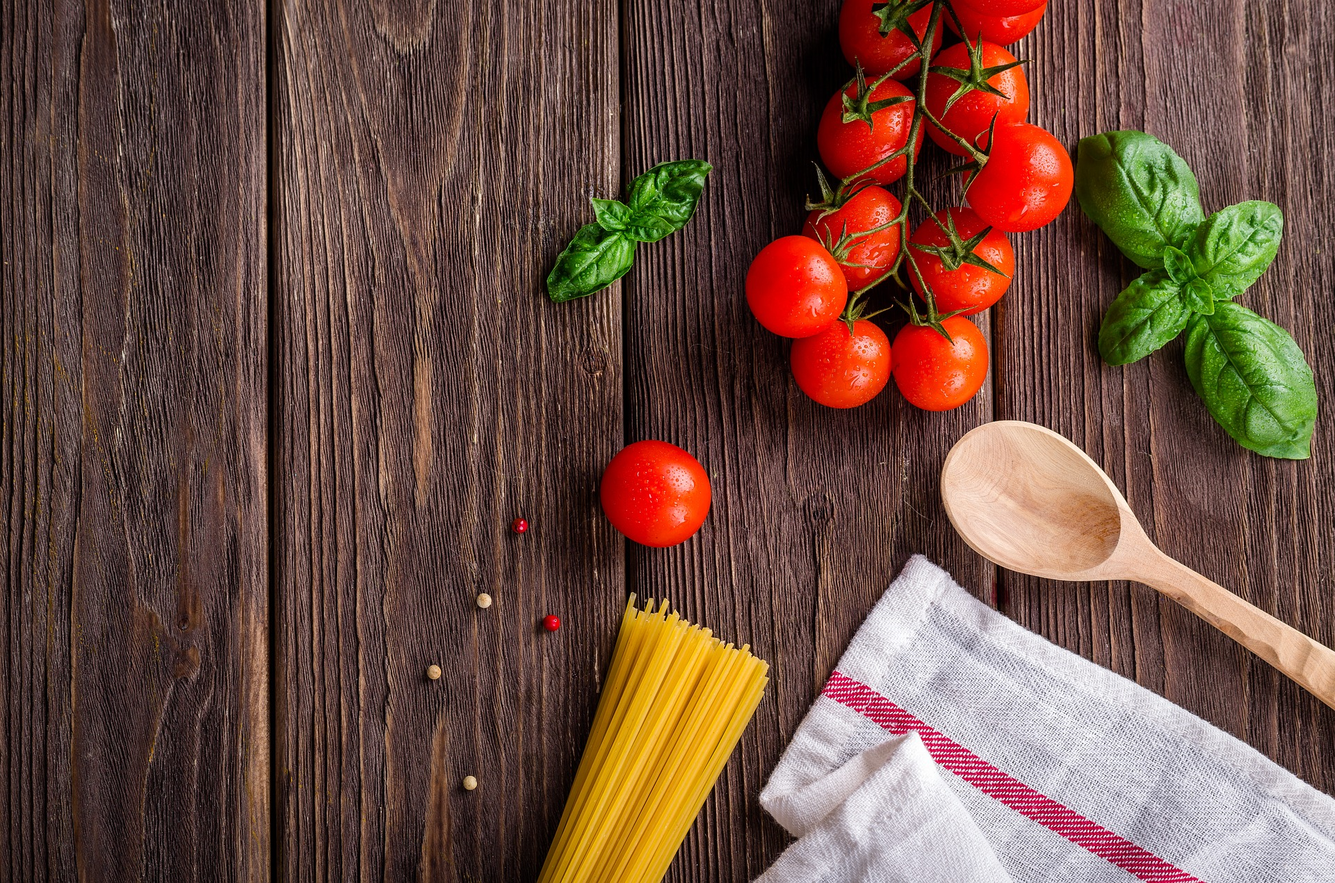
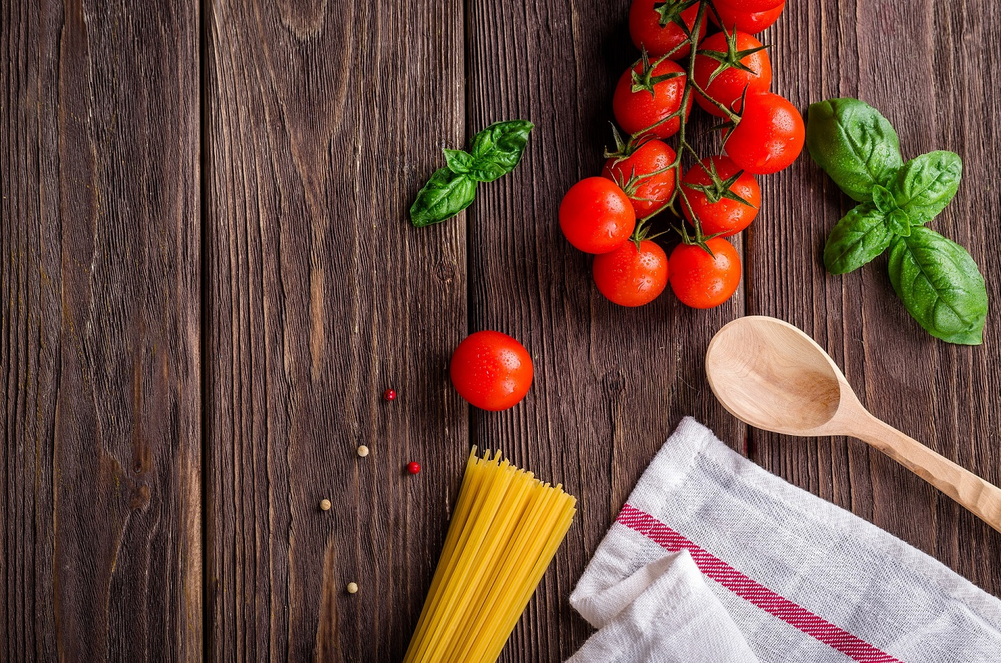
ändrade storlek på bakgrundsbilden

diff --git a/index.css b/index.css
@@ -7,6 +7,7 @@ body > header, footer {
     line-height: 150px;
 }
 main > section {
-    
     background-image: url("images/background.jpg");
+    background-size: auto;
+    background-position: center;
 }
